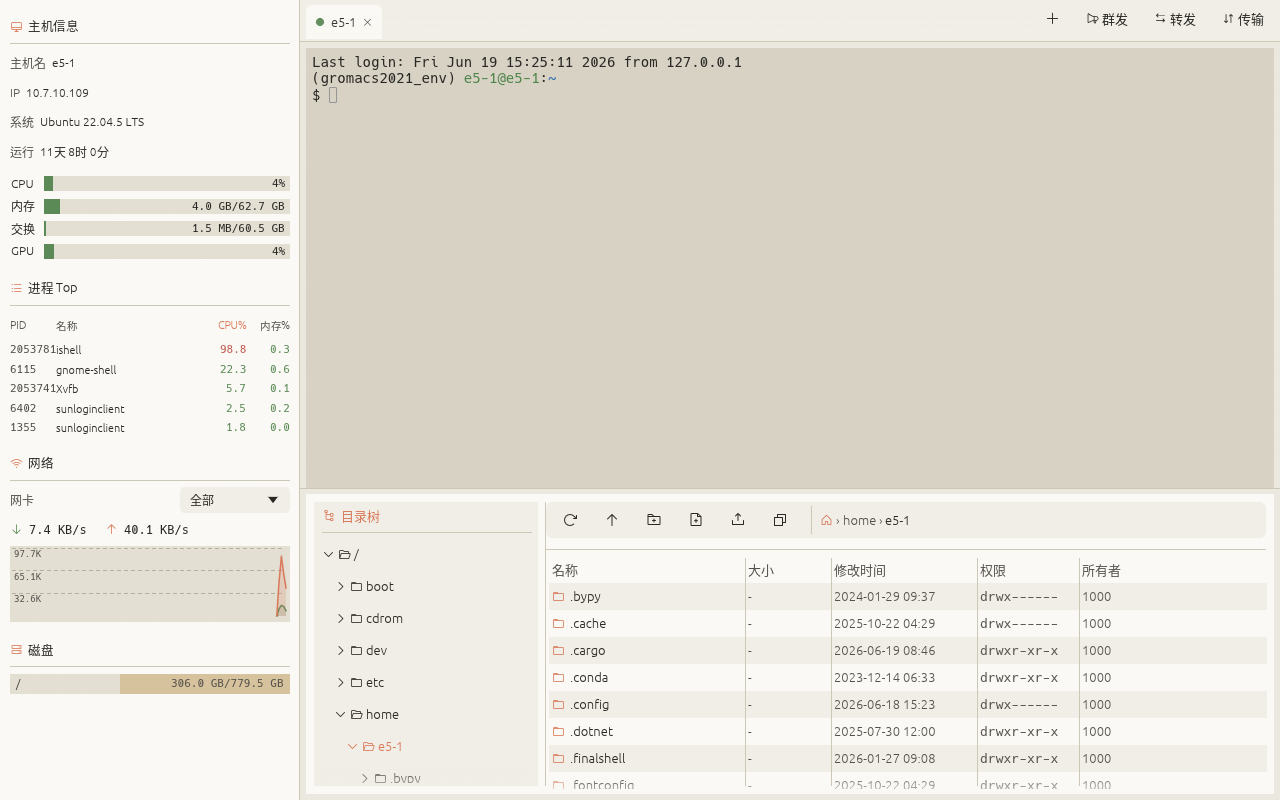
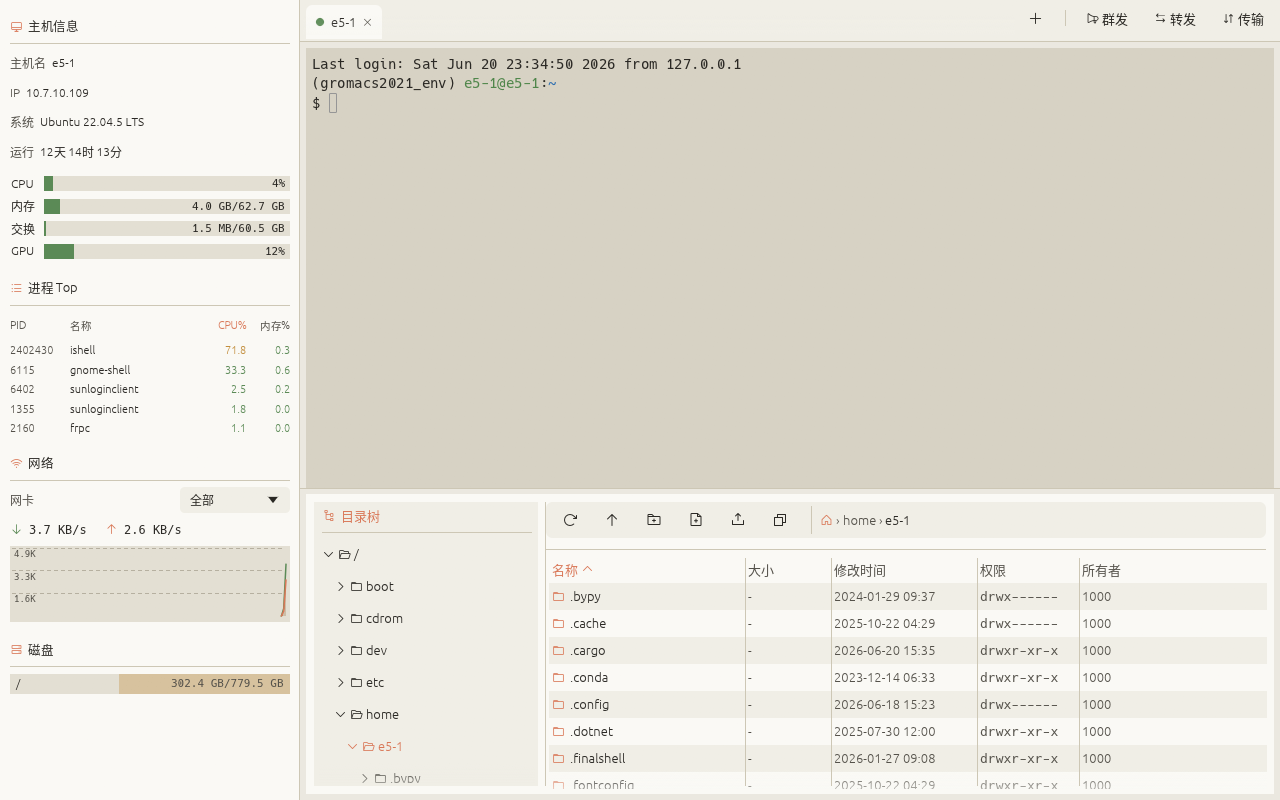
docs: 更新 README 与文件操作截图（v0.5.0）
- 功能列表补充：看图工具、编辑器/看图独立 OS 窗口、编辑器行号、大小/时间排序默认降序。
- 刷新 hero 截图；新增 files 截图（SFTP 文件管理 + 并发传输）。

diff --git a/README.md b/README.md
@@ -63,12 +63,17 @@ an interactive terminal in the center, and an SFTP file manager at the bottom-ri
 - **Command broadcast**: send a command to every connected session at once
 
 **Files & monitoring**
-- SFTP: tree + list, **click a header to sort by name / size / time**, drag-and-drop upload, download (incl. **recursive folders**), chmod / rename / delete / copy path, optional default download folder
+- SFTP: tree + list, **click a header to sort by name / size / time** (size & time default to descending — largest / newest first), drag-and-drop upload, download (incl. **recursive folders**), chmod / rename / delete / copy path, optional default download folder
 - **Concurrent transfers** (up to 6 per server; different servers are independent), **cancellable mid-transfer**, click a failed item to see why
-- **Tabbed text editor**: syntax highlighting, find & replace, large-file read-only virtualization (switchable to editable)
+- **Tabbed text editor** (its own OS window): **line numbers**, syntax highlighting, find & replace, large-file read-only virtualization (switchable to editable)
+- **Lightweight image viewer** (its own OS window): double-click a `png / jpg / gif / bmp` to open — zoom (scroll), pan (drag), fit / 1:1, save-as; pure-Rust decoders keep the binary small
 - Live monitor: CPU / memory / swap, **GPU (NVIDIA / AMD / Intel)**, network graph, disks, top processes (click for details + kill -9)
 
 ## 📸 Screenshots
+
+| SFTP file manager + concurrent transfers |
+|---|
+| ![](docs/screenshots/files.png) |
 
 | Quick Connect | Port Forwarding |
 |---|---|
@@ -78,7 +83,7 @@ an interactive terminal in the center, and an SFTP file manager at the bottom-ri
 |---|---|
 | ![](docs/screenshots/gpu.png) | ![](docs/screenshots/proc.png) |
 
-| Tabbed editor (large-file read-only + switchable) |
+| Tabbed editor — line numbers, large-file read-only (switchable), opens in its own window |
 |---|
 | ![](docs/screenshots/edit.png) |
 